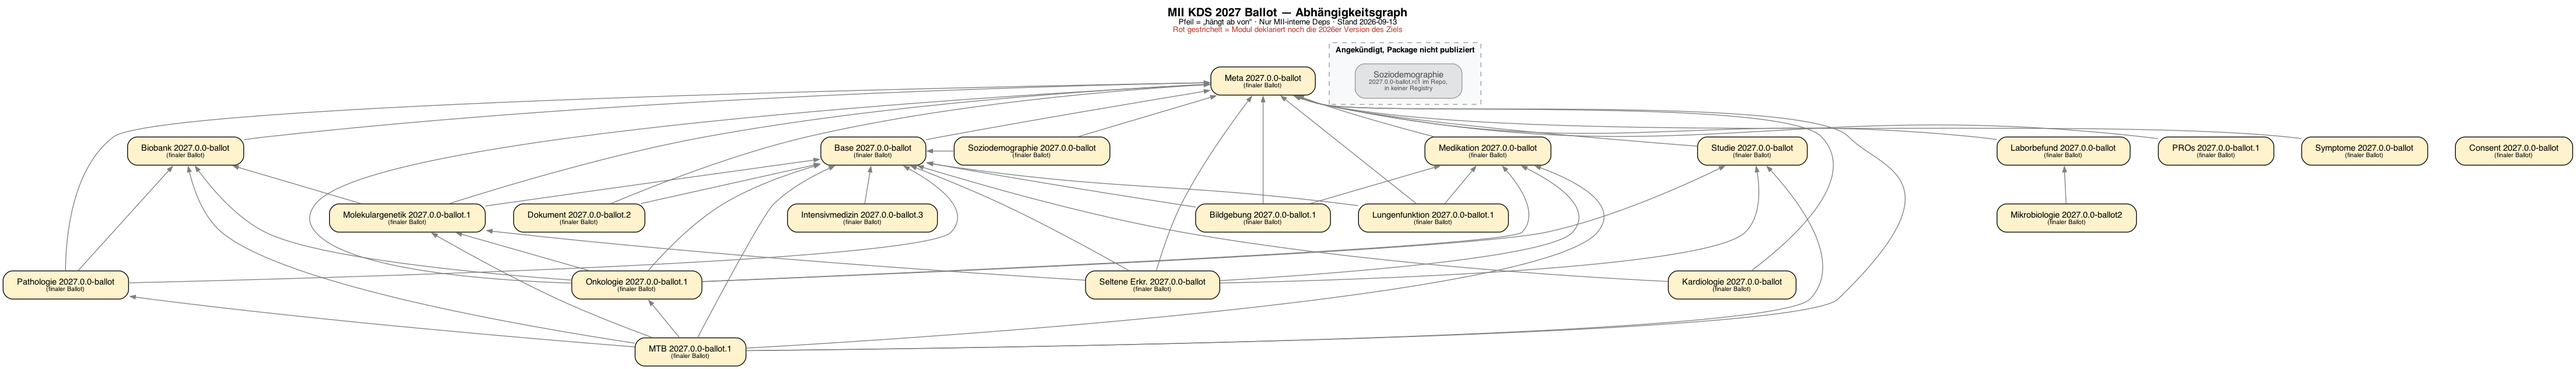
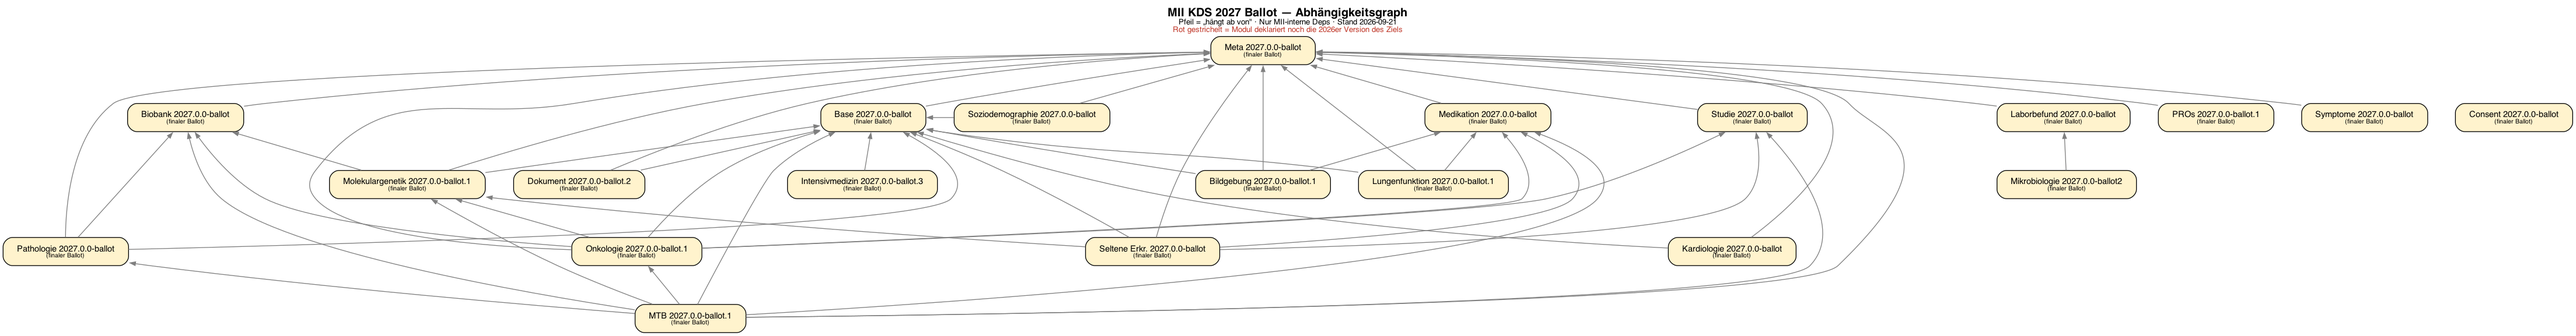
Ballot-Stand aktuell: rc-Historie raus, Graph bereinigt, Filter auf 200 Tage
- index.md: Hinweisblock auf den aktuellen Stand eingedampft (alle 21 Module
  auf ballot/ballot.x/ballot2, rc-Kandidaten abgeloest); PROs-Release auf
  v2027.0.0-ballot.1 korrigiert
- dep-graph-2027: veralteten Soziodemographie-Doppelknoten ('nicht publiziert')
  entfernt, Datum aktualisiert, neu gerendert
- ballot-tickets: Zeitfenster created >= -200d fuer Tabelle, Deep-Links und
  gespeicherte Filter; Portal-Filter aktualisiert

Claude-Session: https://claude.ai/code/session_01FUMnfFDBivo794wErYvxXj

diff --git a/scripts/ballot-tickets.py b/scripts/ballot-tickets.py
@@ -39,6 +39,7 @@ BALLOT_PAGE = os.path.join(ROOT, "input", "pagecontent", "ballot.md")
 MARK_START = "<!-- BALLOT-TICKETS:START -->"
 MARK_END = "<!-- BALLOT-TICKETS:END -->"
 FILTER_PREFIX = "MII KDS Ballot 2027 – "
+WINDOW_DAYS = 200  # nur Tickets aus diesem Zeitfenster zaehlen/filtern
 
 # Werte des Auswahlfelds "Project" (cf[10066]) im Ballotportal — die Melder ordnen
 # ihr Ticket damit einer ballotierten Spezifikation zu. Module ohne Eintrag haben
@@ -154,6 +155,7 @@ def jql_for(mod, info, project=BALLOT_PROJECT, open_only=False):
     parts = []
     if project:
         parts.append(f"project = {project}")
+    parts.append(f"created >= -{WINDOW_DAYS}d")
     if open_only:
         parts.append("statusCategory != Done")
     if project == BALLOT_PROJECT and mod in CF_OPTIONS:

diff --git a/input/pagecontent/ballot.md b/input/pagecontent/ballot.md
@@ -8,7 +8,9 @@ sind nicht anonym lesbar.
 
 ### Ticketstand je Modul
 
-Die Zuordnung der Tickets zu den Modulen folgt dem Auswahlfeld **„Project"** des
+Gezählt werden die Tickets der **letzten 200 Tage**, damit die Übersicht den laufenden
+Ballot zeigt und nicht die Historie früherer Kommentierungsrunden. Die Zuordnung der
+Tickets zu den Modulen folgt dem Auswahlfeld **„Project"** des
 Ballotportals, mit dem die Melder ihr Ticket einer ballotierten Spezifikation zuordnen
 (Base fasst dabei die Portaleinträge Person, Fall, Diagnose und Prozedur zusammen).
 Module, für die das Portal noch keine Auswahloption hat (Meta, Consent, Kardiologie,
@@ -20,30 +22,30 @@ Version, die diese BOM pinnt — im Zweifel das Ticket selbst prüfen.
 
 | Modul | Offen | In Arbeit | Erledigt | Gesamt | Portal |
 |-------|------:|----------:|---------:|-------:|--------|
-| Basismodul | 27 | 0 | 14 | 41 | [offen](https://hl7germany.atlassian.net/issues/?jql=project%20%3D%20HDB%20AND%20statusCategory%20%21%3D%20Done%20AND%20cf%5B10066%5D%20in%20%28%22MII%20-%20Modul%20Person%22%2C%20%22MII%20-%20Modul%20Fall%22%2C%20%22MII%20-%20Modul%20Diagnose%22%2C%20%22MII%20-%20Modul%20Prozedur%22%29%20ORDER%20BY%20created%20DESC) · [alle](https://hl7germany.atlassian.net/issues/?jql=project%20%3D%20HDB%20AND%20cf%5B10066%5D%20in%20%28%22MII%20-%20Modul%20Person%22%2C%20%22MII%20-%20Modul%20Fall%22%2C%20%22MII%20-%20Modul%20Diagnose%22%2C%20%22MII%20-%20Modul%20Prozedur%22%29%20ORDER%20BY%20created%20DESC) |
-| Bildgebung | 2 | 0 | 19 | 21 | [offen](https://hl7germany.atlassian.net/issues/?jql=project%20%3D%20HDB%20AND%20statusCategory%20%21%3D%20Done%20AND%20cf%5B10066%5D%20in%20%28%22MII%20-%20Modul%20Bildgebene%20Verfahren%22%2C%20%22MII%20-%20Modul%20Bildgebung%22%29%20ORDER%20BY%20created%20DESC) · [alle](https://hl7germany.atlassian.net/issues/?jql=project%20%3D%20HDB%20AND%20cf%5B10066%5D%20in%20%28%22MII%20-%20Modul%20Bildgebene%20Verfahren%22%2C%20%22MII%20-%20Modul%20Bildgebung%22%29%20ORDER%20BY%20created%20DESC) |
-| Biobank | 3 | 1 | 0 | 4 | [offen](https://hl7germany.atlassian.net/issues/?jql=project%20%3D%20HDB%20AND%20statusCategory%20%21%3D%20Done%20AND%20cf%5B10066%5D%20in%20%28%22MII%20-%20Modul%20Bioprobendaten%22%29%20ORDER%20BY%20created%20DESC) · [alle](https://hl7germany.atlassian.net/issues/?jql=project%20%3D%20HDB%20AND%20cf%5B10066%5D%20in%20%28%22MII%20-%20Modul%20Bioprobendaten%22%29%20ORDER%20BY%20created%20DESC) |
-| Consent | 10 | 1 | 3 | 14 | [offen](https://hl7germany.atlassian.net/issues/?jql=project%20%3D%20HDB%20AND%20statusCategory%20%21%3D%20Done%20AND%20%28text%20~%20%22de.medizininformatikinitiative.kerndatensatz.consent%22%20OR%20text%20~%20%22Consent%22%20OR%20text%20~%20%22Einwilligung%22%29%20ORDER%20BY%20created%20DESC) · [alle](https://hl7germany.atlassian.net/issues/?jql=project%20%3D%20HDB%20AND%20%28text%20~%20%22de.medizininformatikinitiative.kerndatensatz.consent%22%20OR%20text%20~%20%22Consent%22%20OR%20text%20~%20%22Einwilligung%22%29%20ORDER%20BY%20created%20DESC) |
-| Dokument | 1 | 0 | 16 | 17 | [offen](https://hl7germany.atlassian.net/issues/?jql=project%20%3D%20HDB%20AND%20statusCategory%20%21%3D%20Done%20AND%20cf%5B10066%5D%20in%20%28%22MII%20-%20Modul%20Dokument%22%29%20ORDER%20BY%20created%20DESC) · [alle](https://hl7germany.atlassian.net/issues/?jql=project%20%3D%20HDB%20AND%20cf%5B10066%5D%20in%20%28%22MII%20-%20Modul%20Dokument%22%29%20ORDER%20BY%20created%20DESC) |
-| Intensivmedizin | 2 | 0 | 11 | 13 | [offen](https://hl7germany.atlassian.net/issues/?jql=project%20%3D%20HDB%20AND%20statusCategory%20%21%3D%20Done%20AND%20cf%5B10066%5D%20in%20%28%22MII%20-%20Modul%20Intensivmedizin%22%29%20ORDER%20BY%20created%20DESC) · [alle](https://hl7germany.atlassian.net/issues/?jql=project%20%3D%20HDB%20AND%20cf%5B10066%5D%20in%20%28%22MII%20-%20Modul%20Intensivmedizin%22%29%20ORDER%20BY%20created%20DESC) |
-| Kardiologie | 2 | 0 | 1 | 3 | [offen](https://hl7germany.atlassian.net/issues/?jql=project%20%3D%20HDB%20AND%20statusCategory%20%21%3D%20Done%20AND%20%28text%20~%20%22de.medizininformatikinitiative.kerndatensatz.kardiologie%22%20OR%20text%20~%20%22Kardiologie%22%29%20ORDER%20BY%20created%20DESC) · [alle](https://hl7germany.atlassian.net/issues/?jql=project%20%3D%20HDB%20AND%20%28text%20~%20%22de.medizininformatikinitiative.kerndatensatz.kardiologie%22%20OR%20text%20~%20%22Kardiologie%22%29%20ORDER%20BY%20created%20DESC) |
-| Laborbefund | 15 | 0 | 0 | 15 | [offen](https://hl7germany.atlassian.net/issues/?jql=project%20%3D%20HDB%20AND%20statusCategory%20%21%3D%20Done%20AND%20cf%5B10066%5D%20in%20%28%22MII%20-%20Modul%20Laborbefund%22%29%20ORDER%20BY%20created%20DESC) · [alle](https://hl7germany.atlassian.net/issues/?jql=project%20%3D%20HDB%20AND%20cf%5B10066%5D%20in%20%28%22MII%20-%20Modul%20Laborbefund%22%29%20ORDER%20BY%20created%20DESC) |
-| Lungenfunktion | 0 | 0 | 0 | 0 | [offen](https://hl7germany.atlassian.net/issues/?jql=project%20%3D%20HDB%20AND%20statusCategory%20%21%3D%20Done%20AND%20%28text%20~%20%22de.medizininformatikinitiative.kerndatensatz.lungenfunktion%22%20OR%20text%20~%20%22Lungenfunktion%22%29%20ORDER%20BY%20created%20DESC) · [alle](https://hl7germany.atlassian.net/issues/?jql=project%20%3D%20HDB%20AND%20%28text%20~%20%22de.medizininformatikinitiative.kerndatensatz.lungenfunktion%22%20OR%20text%20~%20%22Lungenfunktion%22%29%20ORDER%20BY%20created%20DESC) |
-| Medikation | 0 | 0 | 7 | 7 | [offen](https://hl7germany.atlassian.net/issues/?jql=project%20%3D%20HDB%20AND%20statusCategory%20%21%3D%20Done%20AND%20cf%5B10066%5D%20in%20%28%22MII%20-%20Modul%20Medikation%22%29%20ORDER%20BY%20created%20DESC) · [alle](https://hl7germany.atlassian.net/issues/?jql=project%20%3D%20HDB%20AND%20cf%5B10066%5D%20in%20%28%22MII%20-%20Modul%20Medikation%22%29%20ORDER%20BY%20created%20DESC) |
-| Metadaten | 5 | 0 | 5 | 10 | [offen](https://hl7germany.atlassian.net/issues/?jql=project%20%3D%20HDB%20AND%20statusCategory%20%21%3D%20Done%20AND%20%28text%20~%20%22de.medizininformatikinitiative.kerndatensatz.meta%22%20OR%20text%20~%20%22Metadaten%22%29%20ORDER%20BY%20created%20DESC) · [alle](https://hl7germany.atlassian.net/issues/?jql=project%20%3D%20HDB%20AND%20%28text%20~%20%22de.medizininformatikinitiative.kerndatensatz.meta%22%20OR%20text%20~%20%22Metadaten%22%29%20ORDER%20BY%20created%20DESC) |
-| Mikrobiologie | 24 | 0 | 7 | 31 | [offen](https://hl7germany.atlassian.net/issues/?jql=project%20%3D%20HDB%20AND%20statusCategory%20%21%3D%20Done%20AND%20cf%5B10066%5D%20in%20%28%22MII%20-%20Modul%20Mikrobiologie%22%29%20ORDER%20BY%20created%20DESC) · [alle](https://hl7germany.atlassian.net/issues/?jql=project%20%3D%20HDB%20AND%20cf%5B10066%5D%20in%20%28%22MII%20-%20Modul%20Mikrobiologie%22%29%20ORDER%20BY%20created%20DESC) |
-| Molekulargenetik | 8 | 1 | 4 | 13 | [offen](https://hl7germany.atlassian.net/issues/?jql=project%20%3D%20HDB%20AND%20statusCategory%20%21%3D%20Done%20AND%20cf%5B10066%5D%20in%20%28%22MII%20-%20Modul%20Molekulargenetischer%20Befundbericht%22%29%20ORDER%20BY%20created%20DESC) · [alle](https://hl7germany.atlassian.net/issues/?jql=project%20%3D%20HDB%20AND%20cf%5B10066%5D%20in%20%28%22MII%20-%20Modul%20Molekulargenetischer%20Befundbericht%22%29%20ORDER%20BY%20created%20DESC) |
-| Molekulares Tumorboard | 6 | 5 | 6 | 17 | [offen](https://hl7germany.atlassian.net/issues/?jql=project%20%3D%20HDB%20AND%20statusCategory%20%21%3D%20Done%20AND%20cf%5B10066%5D%20in%20%28%22MII%20-%20Modul%20Tumorboard%22%2C%20%22MII%20-%20Modul%20Molekulares%20Tumorboard%22%29%20ORDER%20BY%20created%20DESC) · [alle](https://hl7germany.atlassian.net/issues/?jql=project%20%3D%20HDB%20AND%20cf%5B10066%5D%20in%20%28%22MII%20-%20Modul%20Tumorboard%22%2C%20%22MII%20-%20Modul%20Molekulares%20Tumorboard%22%29%20ORDER%20BY%20created%20DESC) |
-| Onkologie | 18 | 20 | 112 | 150 | [offen](https://hl7germany.atlassian.net/issues/?jql=project%20%3D%20HDB%20AND%20statusCategory%20%21%3D%20Done%20AND%20cf%5B10066%5D%20in%20%28%22MII%20-%20Modul%20Onkologie%22%29%20ORDER%20BY%20created%20DESC) · [alle](https://hl7germany.atlassian.net/issues/?jql=project%20%3D%20HDB%20AND%20cf%5B10066%5D%20in%20%28%22MII%20-%20Modul%20Onkologie%22%29%20ORDER%20BY%20created%20DESC) |
-| Pathologie | 0 | 0 | 16 | 16 | [offen](https://hl7germany.atlassian.net/issues/?jql=project%20%3D%20HDB%20AND%20statusCategory%20%21%3D%20Done%20AND%20cf%5B10066%5D%20in%20%28%22MII%20-%20Modul%20Pathologiebefund%22%29%20ORDER%20BY%20created%20DESC) · [alle](https://hl7germany.atlassian.net/issues/?jql=project%20%3D%20HDB%20AND%20cf%5B10066%5D%20in%20%28%22MII%20-%20Modul%20Pathologiebefund%22%29%20ORDER%20BY%20created%20DESC) |
-| PRO | 8 | 0 | 2 | 10 | [offen](https://hl7germany.atlassian.net/issues/?jql=project%20%3D%20HDB%20AND%20statusCategory%20%21%3D%20Done%20AND%20cf%5B10066%5D%20in%20%28%22MII%20-%20Modul%20Patient%20Reported%20Outcomes%22%29%20ORDER%20BY%20created%20DESC) · [alle](https://hl7germany.atlassian.net/issues/?jql=project%20%3D%20HDB%20AND%20cf%5B10066%5D%20in%20%28%22MII%20-%20Modul%20Patient%20Reported%20Outcomes%22%29%20ORDER%20BY%20created%20DESC) |
-| Seltene Erkrankungen | 9 | 4 | 12 | 25 | [offen](https://hl7germany.atlassian.net/issues/?jql=project%20%3D%20HDB%20AND%20statusCategory%20%21%3D%20Done%20AND%20cf%5B10066%5D%20in%20%28%22MII%20-%20Modul%20Seltene%20Erkrankungen%22%29%20ORDER%20BY%20created%20DESC) · [alle](https://hl7germany.atlassian.net/issues/?jql=project%20%3D%20HDB%20AND%20cf%5B10066%5D%20in%20%28%22MII%20-%20Modul%20Seltene%20Erkrankungen%22%29%20ORDER%20BY%20created%20DESC) |
-| Soziodemographie | 1 | 0 | 0 | 1 | [offen](https://hl7germany.atlassian.net/issues/?jql=project%20%3D%20HDB%20AND%20statusCategory%20%21%3D%20Done%20AND%20%28text%20~%20%22de.medizininformatikinitiative.kerndatensatz.soziodemographie%22%20OR%20text%20~%20%22Soziodemographie%22%20OR%20text%20~%20%22Soziodemographisch%22%29%20ORDER%20BY%20created%20DESC) · [alle](https://hl7germany.atlassian.net/issues/?jql=project%20%3D%20HDB%20AND%20%28text%20~%20%22de.medizininformatikinitiative.kerndatensatz.soziodemographie%22%20OR%20text%20~%20%22Soziodemographie%22%20OR%20text%20~%20%22Soziodemographisch%22%29%20ORDER%20BY%20created%20DESC) |
-| Studie | 116 | 8 | 33 | 157 | [offen](https://hl7germany.atlassian.net/issues/?jql=project%20%3D%20HDB%20AND%20statusCategory%20%21%3D%20Done%20AND%20cf%5B10066%5D%20in%20%28%22MII%20-%20Modul%20Medizinisches%20Forschungsvorhaben%22%29%20ORDER%20BY%20created%20DESC) · [alle](https://hl7germany.atlassian.net/issues/?jql=project%20%3D%20HDB%20AND%20cf%5B10066%5D%20in%20%28%22MII%20-%20Modul%20Medizinisches%20Forschungsvorhaben%22%29%20ORDER%20BY%20created%20DESC) |
-| Symptom | 3 | 0 | 1 | 4 | [offen](https://hl7germany.atlassian.net/issues/?jql=project%20%3D%20HDB%20AND%20statusCategory%20%21%3D%20Done%20AND%20cf%5B10066%5D%20in%20%28%22MII%20-%20Modul%20Symptom%20%2F%20klinischer%20Ph%C3%A4notyp%22%29%20ORDER%20BY%20created%20DESC) · [alle](https://hl7germany.atlassian.net/issues/?jql=project%20%3D%20HDB%20AND%20cf%5B10066%5D%20in%20%28%22MII%20-%20Modul%20Symptom%20%2F%20klinischer%20Ph%C3%A4notyp%22%29%20ORDER%20BY%20created%20DESC) |
-| **Summe** | **260** | **40** | **269** | **569** | |
+| Basismodul | 0 | 0 | 0 | 0 | [offen](https://hl7germany.atlassian.net/issues/?jql=project%20%3D%20HDB%20AND%20created%20%3E%3D%20-200d%20AND%20statusCategory%20%21%3D%20Done%20AND%20cf%5B10066%5D%20in%20%28%22MII%20-%20Modul%20Person%22%2C%20%22MII%20-%20Modul%20Fall%22%2C%20%22MII%20-%20Modul%20Diagnose%22%2C%20%22MII%20-%20Modul%20Prozedur%22%29%20ORDER%20BY%20created%20DESC) · [alle](https://hl7germany.atlassian.net/issues/?jql=project%20%3D%20HDB%20AND%20created%20%3E%3D%20-200d%20AND%20cf%5B10066%5D%20in%20%28%22MII%20-%20Modul%20Person%22%2C%20%22MII%20-%20Modul%20Fall%22%2C%20%22MII%20-%20Modul%20Diagnose%22%2C%20%22MII%20-%20Modul%20Prozedur%22%29%20ORDER%20BY%20created%20DESC) |
+| Bildgebung | 1 | 0 | 0 | 1 | [offen](https://hl7germany.atlassian.net/issues/?jql=project%20%3D%20HDB%20AND%20created%20%3E%3D%20-200d%20AND%20statusCategory%20%21%3D%20Done%20AND%20cf%5B10066%5D%20in%20%28%22MII%20-%20Modul%20Bildgebene%20Verfahren%22%2C%20%22MII%20-%20Modul%20Bildgebung%22%29%20ORDER%20BY%20created%20DESC) · [alle](https://hl7germany.atlassian.net/issues/?jql=project%20%3D%20HDB%20AND%20created%20%3E%3D%20-200d%20AND%20cf%5B10066%5D%20in%20%28%22MII%20-%20Modul%20Bildgebene%20Verfahren%22%2C%20%22MII%20-%20Modul%20Bildgebung%22%29%20ORDER%20BY%20created%20DESC) |
+| Biobank | 0 | 0 | 0 | 0 | [offen](https://hl7germany.atlassian.net/issues/?jql=project%20%3D%20HDB%20AND%20created%20%3E%3D%20-200d%20AND%20statusCategory%20%21%3D%20Done%20AND%20cf%5B10066%5D%20in%20%28%22MII%20-%20Modul%20Bioprobendaten%22%29%20ORDER%20BY%20created%20DESC) · [alle](https://hl7germany.atlassian.net/issues/?jql=project%20%3D%20HDB%20AND%20created%20%3E%3D%20-200d%20AND%20cf%5B10066%5D%20in%20%28%22MII%20-%20Modul%20Bioprobendaten%22%29%20ORDER%20BY%20created%20DESC) |
+| Consent | 0 | 0 | 0 | 0 | [offen](https://hl7germany.atlassian.net/issues/?jql=project%20%3D%20HDB%20AND%20created%20%3E%3D%20-200d%20AND%20statusCategory%20%21%3D%20Done%20AND%20%28text%20~%20%22de.medizininformatikinitiative.kerndatensatz.consent%22%20OR%20text%20~%20%22Consent%22%20OR%20text%20~%20%22Einwilligung%22%29%20ORDER%20BY%20created%20DESC) · [alle](https://hl7germany.atlassian.net/issues/?jql=project%20%3D%20HDB%20AND%20created%20%3E%3D%20-200d%20AND%20%28text%20~%20%22de.medizininformatikinitiative.kerndatensatz.consent%22%20OR%20text%20~%20%22Consent%22%20OR%20text%20~%20%22Einwilligung%22%29%20ORDER%20BY%20created%20DESC) |
+| Dokument | 1 | 0 | 0 | 1 | [offen](https://hl7germany.atlassian.net/issues/?jql=project%20%3D%20HDB%20AND%20created%20%3E%3D%20-200d%20AND%20statusCategory%20%21%3D%20Done%20AND%20cf%5B10066%5D%20in%20%28%22MII%20-%20Modul%20Dokument%22%29%20ORDER%20BY%20created%20DESC) · [alle](https://hl7germany.atlassian.net/issues/?jql=project%20%3D%20HDB%20AND%20created%20%3E%3D%20-200d%20AND%20cf%5B10066%5D%20in%20%28%22MII%20-%20Modul%20Dokument%22%29%20ORDER%20BY%20created%20DESC) |
+| Intensivmedizin | 1 | 0 | 0 | 1 | [offen](https://hl7germany.atlassian.net/issues/?jql=project%20%3D%20HDB%20AND%20created%20%3E%3D%20-200d%20AND%20statusCategory%20%21%3D%20Done%20AND%20cf%5B10066%5D%20in%20%28%22MII%20-%20Modul%20Intensivmedizin%22%29%20ORDER%20BY%20created%20DESC) · [alle](https://hl7germany.atlassian.net/issues/?jql=project%20%3D%20HDB%20AND%20created%20%3E%3D%20-200d%20AND%20cf%5B10066%5D%20in%20%28%22MII%20-%20Modul%20Intensivmedizin%22%29%20ORDER%20BY%20created%20DESC) |
+| Kardiologie | 0 | 0 | 0 | 0 | [offen](https://hl7germany.atlassian.net/issues/?jql=project%20%3D%20HDB%20AND%20created%20%3E%3D%20-200d%20AND%20statusCategory%20%21%3D%20Done%20AND%20%28text%20~%20%22de.medizininformatikinitiative.kerndatensatz.kardiologie%22%20OR%20text%20~%20%22Kardiologie%22%29%20ORDER%20BY%20created%20DESC) · [alle](https://hl7germany.atlassian.net/issues/?jql=project%20%3D%20HDB%20AND%20created%20%3E%3D%20-200d%20AND%20%28text%20~%20%22de.medizininformatikinitiative.kerndatensatz.kardiologie%22%20OR%20text%20~%20%22Kardiologie%22%29%20ORDER%20BY%20created%20DESC) |
+| Laborbefund | 0 | 0 | 0 | 0 | [offen](https://hl7germany.atlassian.net/issues/?jql=project%20%3D%20HDB%20AND%20created%20%3E%3D%20-200d%20AND%20statusCategory%20%21%3D%20Done%20AND%20cf%5B10066%5D%20in%20%28%22MII%20-%20Modul%20Laborbefund%22%29%20ORDER%20BY%20created%20DESC) · [alle](https://hl7germany.atlassian.net/issues/?jql=project%20%3D%20HDB%20AND%20created%20%3E%3D%20-200d%20AND%20cf%5B10066%5D%20in%20%28%22MII%20-%20Modul%20Laborbefund%22%29%20ORDER%20BY%20created%20DESC) |
+| Lungenfunktion | 0 | 0 | 0 | 0 | [offen](https://hl7germany.atlassian.net/issues/?jql=project%20%3D%20HDB%20AND%20created%20%3E%3D%20-200d%20AND%20statusCategory%20%21%3D%20Done%20AND%20%28text%20~%20%22de.medizininformatikinitiative.kerndatensatz.lungenfunktion%22%20OR%20text%20~%20%22Lungenfunktion%22%29%20ORDER%20BY%20created%20DESC) · [alle](https://hl7germany.atlassian.net/issues/?jql=project%20%3D%20HDB%20AND%20created%20%3E%3D%20-200d%20AND%20%28text%20~%20%22de.medizininformatikinitiative.kerndatensatz.lungenfunktion%22%20OR%20text%20~%20%22Lungenfunktion%22%29%20ORDER%20BY%20created%20DESC) |
+| Medikation | 0 | 0 | 0 | 0 | [offen](https://hl7germany.atlassian.net/issues/?jql=project%20%3D%20HDB%20AND%20created%20%3E%3D%20-200d%20AND%20statusCategory%20%21%3D%20Done%20AND%20cf%5B10066%5D%20in%20%28%22MII%20-%20Modul%20Medikation%22%29%20ORDER%20BY%20created%20DESC) · [alle](https://hl7germany.atlassian.net/issues/?jql=project%20%3D%20HDB%20AND%20created%20%3E%3D%20-200d%20AND%20cf%5B10066%5D%20in%20%28%22MII%20-%20Modul%20Medikation%22%29%20ORDER%20BY%20created%20DESC) |
+| Metadaten | 0 | 0 | 0 | 0 | [offen](https://hl7germany.atlassian.net/issues/?jql=project%20%3D%20HDB%20AND%20created%20%3E%3D%20-200d%20AND%20statusCategory%20%21%3D%20Done%20AND%20%28text%20~%20%22de.medizininformatikinitiative.kerndatensatz.meta%22%20OR%20text%20~%20%22Metadaten%22%29%20ORDER%20BY%20created%20DESC) · [alle](https://hl7germany.atlassian.net/issues/?jql=project%20%3D%20HDB%20AND%20created%20%3E%3D%20-200d%20AND%20%28text%20~%20%22de.medizininformatikinitiative.kerndatensatz.meta%22%20OR%20text%20~%20%22Metadaten%22%29%20ORDER%20BY%20created%20DESC) |
+| Mikrobiologie | 0 | 0 | 0 | 0 | [offen](https://hl7germany.atlassian.net/issues/?jql=project%20%3D%20HDB%20AND%20created%20%3E%3D%20-200d%20AND%20statusCategory%20%21%3D%20Done%20AND%20cf%5B10066%5D%20in%20%28%22MII%20-%20Modul%20Mikrobiologie%22%29%20ORDER%20BY%20created%20DESC) · [alle](https://hl7germany.atlassian.net/issues/?jql=project%20%3D%20HDB%20AND%20created%20%3E%3D%20-200d%20AND%20cf%5B10066%5D%20in%20%28%22MII%20-%20Modul%20Mikrobiologie%22%29%20ORDER%20BY%20created%20DESC) |
+| Molekulargenetik | 0 | 0 | 0 | 0 | [offen](https://hl7germany.atlassian.net/issues/?jql=project%20%3D%20HDB%20AND%20created%20%3E%3D%20-200d%20AND%20statusCategory%20%21%3D%20Done%20AND%20cf%5B10066%5D%20in%20%28%22MII%20-%20Modul%20Molekulargenetischer%20Befundbericht%22%29%20ORDER%20BY%20created%20DESC) · [alle](https://hl7germany.atlassian.net/issues/?jql=project%20%3D%20HDB%20AND%20created%20%3E%3D%20-200d%20AND%20cf%5B10066%5D%20in%20%28%22MII%20-%20Modul%20Molekulargenetischer%20Befundbericht%22%29%20ORDER%20BY%20created%20DESC) |
+| Molekulares Tumorboard | 1 | 0 | 0 | 1 | [offen](https://hl7germany.atlassian.net/issues/?jql=project%20%3D%20HDB%20AND%20created%20%3E%3D%20-200d%20AND%20statusCategory%20%21%3D%20Done%20AND%20cf%5B10066%5D%20in%20%28%22MII%20-%20Modul%20Tumorboard%22%2C%20%22MII%20-%20Modul%20Molekulares%20Tumorboard%22%29%20ORDER%20BY%20created%20DESC) · [alle](https://hl7germany.atlassian.net/issues/?jql=project%20%3D%20HDB%20AND%20created%20%3E%3D%20-200d%20AND%20cf%5B10066%5D%20in%20%28%22MII%20-%20Modul%20Tumorboard%22%2C%20%22MII%20-%20Modul%20Molekulares%20Tumorboard%22%29%20ORDER%20BY%20created%20DESC) |
+| Onkologie | 0 | 0 | 0 | 0 | [offen](https://hl7germany.atlassian.net/issues/?jql=project%20%3D%20HDB%20AND%20created%20%3E%3D%20-200d%20AND%20statusCategory%20%21%3D%20Done%20AND%20cf%5B10066%5D%20in%20%28%22MII%20-%20Modul%20Onkologie%22%29%20ORDER%20BY%20created%20DESC) · [alle](https://hl7germany.atlassian.net/issues/?jql=project%20%3D%20HDB%20AND%20created%20%3E%3D%20-200d%20AND%20cf%5B10066%5D%20in%20%28%22MII%20-%20Modul%20Onkologie%22%29%20ORDER%20BY%20created%20DESC) |
+| Pathologie | 0 | 0 | 0 | 0 | [offen](https://hl7germany.atlassian.net/issues/?jql=project%20%3D%20HDB%20AND%20created%20%3E%3D%20-200d%20AND%20statusCategory%20%21%3D%20Done%20AND%20cf%5B10066%5D%20in%20%28%22MII%20-%20Modul%20Pathologiebefund%22%29%20ORDER%20BY%20created%20DESC) · [alle](https://hl7germany.atlassian.net/issues/?jql=project%20%3D%20HDB%20AND%20created%20%3E%3D%20-200d%20AND%20cf%5B10066%5D%20in%20%28%22MII%20-%20Modul%20Pathologiebefund%22%29%20ORDER%20BY%20created%20DESC) |
+| PRO | 1 | 0 | 0 | 1 | [offen](https://hl7germany.atlassian.net/issues/?jql=project%20%3D%20HDB%20AND%20created%20%3E%3D%20-200d%20AND%20statusCategory%20%21%3D%20Done%20AND%20cf%5B10066%5D%20in%20%28%22MII%20-%20Modul%20Patient%20Reported%20Outcomes%22%29%20ORDER%20BY%20created%20DESC) · [alle](https://hl7germany.atlassian.net/issues/?jql=project%20%3D%20HDB%20AND%20created%20%3E%3D%20-200d%20AND%20cf%5B10066%5D%20in%20%28%22MII%20-%20Modul%20Patient%20Reported%20Outcomes%22%29%20ORDER%20BY%20created%20DESC) |
+| Seltene Erkrankungen | 0 | 0 | 0 | 0 | [offen](https://hl7germany.atlassian.net/issues/?jql=project%20%3D%20HDB%20AND%20created%20%3E%3D%20-200d%20AND%20statusCategory%20%21%3D%20Done%20AND%20cf%5B10066%5D%20in%20%28%22MII%20-%20Modul%20Seltene%20Erkrankungen%22%29%20ORDER%20BY%20created%20DESC) · [alle](https://hl7germany.atlassian.net/issues/?jql=project%20%3D%20HDB%20AND%20created%20%3E%3D%20-200d%20AND%20cf%5B10066%5D%20in%20%28%22MII%20-%20Modul%20Seltene%20Erkrankungen%22%29%20ORDER%20BY%20created%20DESC) |
+| Soziodemographie | 0 | 0 | 0 | 0 | [offen](https://hl7germany.atlassian.net/issues/?jql=project%20%3D%20HDB%20AND%20created%20%3E%3D%20-200d%20AND%20statusCategory%20%21%3D%20Done%20AND%20%28text%20~%20%22de.medizininformatikinitiative.kerndatensatz.soziodemographie%22%20OR%20text%20~%20%22Soziodemographie%22%20OR%20text%20~%20%22Soziodemographisch%22%29%20ORDER%20BY%20created%20DESC) · [alle](https://hl7germany.atlassian.net/issues/?jql=project%20%3D%20HDB%20AND%20created%20%3E%3D%20-200d%20AND%20%28text%20~%20%22de.medizininformatikinitiative.kerndatensatz.soziodemographie%22%20OR%20text%20~%20%22Soziodemographie%22%20OR%20text%20~%20%22Soziodemographisch%22%29%20ORDER%20BY%20created%20DESC) |
+| Studie | 0 | 0 | 0 | 0 | [offen](https://hl7germany.atlassian.net/issues/?jql=project%20%3D%20HDB%20AND%20created%20%3E%3D%20-200d%20AND%20statusCategory%20%21%3D%20Done%20AND%20cf%5B10066%5D%20in%20%28%22MII%20-%20Modul%20Medizinisches%20Forschungsvorhaben%22%29%20ORDER%20BY%20created%20DESC) · [alle](https://hl7germany.atlassian.net/issues/?jql=project%20%3D%20HDB%20AND%20created%20%3E%3D%20-200d%20AND%20cf%5B10066%5D%20in%20%28%22MII%20-%20Modul%20Medizinisches%20Forschungsvorhaben%22%29%20ORDER%20BY%20created%20DESC) |
+| Symptom | 0 | 0 | 0 | 0 | [offen](https://hl7germany.atlassian.net/issues/?jql=project%20%3D%20HDB%20AND%20created%20%3E%3D%20-200d%20AND%20statusCategory%20%21%3D%20Done%20AND%20cf%5B10066%5D%20in%20%28%22MII%20-%20Modul%20Symptom%20%2F%20klinischer%20Ph%C3%A4notyp%22%29%20ORDER%20BY%20created%20DESC) · [alle](https://hl7germany.atlassian.net/issues/?jql=project%20%3D%20HDB%20AND%20created%20%3E%3D%20-200d%20AND%20cf%5B10066%5D%20in%20%28%22MII%20-%20Modul%20Symptom%20%2F%20klinischer%20Ph%C3%A4notyp%22%29%20ORDER%20BY%20created%20DESC) |
+| **Summe** | **5** | **0** | **0** | **5** | |
 
-<small>Stand: 2026-09-21 11:41 UTC · Zählung über Projekt [HDB](https://hl7germany.atlassian.net/browse/HDB) · automatisch aktualisiert</small>
+<small>Stand: 2026-09-21 12:45 UTC · Zählung über Projekt [HDB](https://hl7germany.atlassian.net/browse/HDB) · automatisch aktualisiert</small>
 <!-- BALLOT-TICKETS:END -->
 
 Die Tabelle wird täglich automatisch aktualisiert

diff --git a/input/pagecontent/index.md b/input/pagecontent/index.md
@@ -14,29 +14,11 @@ Während das [Meta-Modul](https://github.com/medizininformatik-initiative/kernda
 
 > **Ballot-Stand 2027.0.0 (Stand 2026-09-21)**
 >
-> **ICU `2027.0.0-ballot.3`** (publiziert 2026-09-17) löst die letzte 2026er-Kante auf: das Modul deklariert jetzt Base und Meta `2027.0.0-ballot`, Basisprofile 1.6.0, ISiK 6.0.0, Terminology 7.3.0 und DVMD KDL 2026.0.0 — und enthält wieder alle fünf Score-Profile, die der versehentlich publizierten `2027.0.0` fehlen. **Damit ist die Ballot-Linie über alle 21 Module kohärent.** Die älteren Notizen unten beschreiben den Weg dorthin.
+> Alle 21 Module sind auf die 2027er Ballot-Linie gepinnt. Die **aktuellen Fassungen** heißen `2027.0.0-ballot`, `…-ballot.1`, `…-ballot.2`, `…-ballot.3` bzw. `…-ballot2` (Mikrobiologie) — die früheren Release-Kandidaten (`…-ballot.rcN`) sind durchgehend abgelöst. Welche Version je Modul gepinnt ist, zeigt die [Gesamtübersicht](#gesamtübersicht).
 >
-> Diese BOM bildet den laufenden Ballot ab: Module mit einem 2027.0.0-Release sind auf dieses gepinnt (Base, Meta, Biobank, Studie, Bildgebung, Dokument, ICU, Mikrobiologie), alle übrigen auf ihre höchste stabile 2026er Version.
+> Mit **ICU `2027.0.0-ballot.3`** (publiziert 2026-09-17) ist die Ballot-Linie untereinander **kohärent**: Alle Module deklarieren Base und Meta der 2027er Linie, doppelte Canonicals beim transitiven Auflösen treten nicht mehr auf. Diese BOM bleibt dennoch ein **Ballot-Arbeitsstand zum Review, kein freigegebener Versionsstand**.
 >
-> Die Ballot-Linie ist untereinander **noch nicht kohärent**: Die 2027.0.0-Releases deklarieren teilweise weiterhin die 2026er Basismodule als Abhängigkeit — Bildgebung erwartet Base 2026.0.1 und Meta 2026.0.0, Dokument erwartet Base 2026.0.0 und Meta 2026.0.0, Biobank und Studie erwarten Meta 2026.0.0, ICU 2027.0.0 erwartet Base 2026.0.1. Lediglich Base 2027.0.0-ballot.rc1 → Meta 2027.0.0-ballot.rc3 ist in sich stimmig.
->
-> Beim Auflösen können Base und Meta dadurch transitiv in zwei Versionen gezogen werden, was bei der Validierung doppelte Canonicals erzeugt. Im Abhängigkeitsgraphen unten sind diese Stellen rot gestrichelt markiert. Diese BOM ist deshalb ein **Ballot-Arbeitsstand zum Review, kein freigegebener Versionsstand**.
->
-> Neu in dieser BOM sind **Kardiologie** und **Lungenfunktion** (beide 2027.0.0-ballot.rc1). Lungenfunktion deklariert dabei die Abhängigkeit `de.basiprofil.r4` — ein Tippfehler, das Paket existiert nicht und die Abhängigkeit ist nicht auflösbar. **Soziodemographie** ist angekündigt, aber in keiner Registry publiziert und daher nicht gepinnt.
->
-> **Meta ist in der finalen Ballot-Fassung**: `2027.0.0-ballot` vom 10.09.2026 löst `ballot.rc3` ab — 0 Errors statt 386, 182 statt 175 Ressourcen.
->
-> **MolGen `2027.0.0-ballot.1`** verweist als erstes Modul durchgängig auf die finalen Fassungen von Base, Biobank und Meta. **Dokument** ist ebenfalls final, deklariert aber noch Base `ballot.rc1` und Meta `ballot.rc3`.
->
-> **Dokument ist umgezogen**: `ballot.rc2` verweist auf Base und Meta der 2027er Linie — das letzte Modul, das noch an Base 2026.0.0 hing. **Medikation** ist in der finalen Fassung.
->
-> **Neu in der BOM: Symptome** mit `2027.0.0-ballot` — vollständig kohärent und mit 0 QA-Errors. **PROs** ist ebenfalls final, hängt aber unverändert an Meta `2026.0.x`.
->
-> **Base und Biobank sind ebenfalls in der finalen Ballot-Fassung** und verweisen auf Meta `2027.0.0-ballot`. Biobank hat dabei den Umzug auf **MIABIS 1.3.0** vollzogen.
->
-> Vollständig auf 2027er Abhängigkeiten sind damit **Base, Biobank, Laborbefund, Medikation, MolGen und Pathologie**.
->
-> Weiterhin am 2026er Stand hängen **PROs** (Meta 2026.0.x, unverändert seit 2026.7.0), **Lungenfunktion** (Base, Meta und Medikation je 2026.0.x — und weiterhin mit dem Tippfehler `de.basiprofil.r4`), **Bildgebung**, **Dokument**, **ICU**, **Kardiologie** sowie **Mikrobiologie**, das Laborbefund 2026.0.3 fordert.
+> Den Weg dorthin — die rc-Zwischenstände und die schrittweise aufgelösten 2026er-Kanten — dokumentiert die Git-Historie dieser Seite.
 
 
 ## Gesamtübersicht
@@ -101,7 +83,7 @@ Alle Module dieser BOM auf einen Blick — die gepinnte Ballot-Version, das Pack
 | Onkologie | `de.medizininformatikinitiative.kerndatensatz.onkologie` | 2027.0.0-ballot.1 | [kerndatensatzmodul-onkologie](https://github.com/medizininformatik-initiative/kerndatensatzmodul-onkologie) | [2027.0.0-ballot.1](https://medizininformatik-initiative.github.io/kerndatensatzmodul-onkologie/) · 4669 Fehler | [v2027.0.0-ballot.1](https://github.com/medizininformatik-initiative/kerndatensatzmodul-onkologie/releases/tag/v2027.0.0-ballot.1) (2026-09-15) |
 | Seltene Erkrankungen | `de.medizininformatikinitiative.kerndatensatz.seltene` | 2027.0.0-ballot | [kerndatensatzmodul-seltene-erkrankungen](https://github.com/medizininformatik-initiative/kerndatensatzmodul-seltene-erkrankungen) | [2027.0.0-ballot](https://medizininformatik-initiative.github.io/kerndatensatzmodul-seltene-erkrankungen/) · 353 Fehler | [v2026.0.1](https://github.com/medizininformatik-initiative/kerndatensatzmodul-seltene-erkrankungen/releases/tag/v2026.0.1) (2026-03-30) |
 | Molekulares Tumorboard | `de.medizininformatikinitiative.kerndatensatz.mtb` | 2027.0.0-ballot.1 | [kerndatensatzmodul-molekulares-tumorboard](https://github.com/medizininformatik-initiative/kerndatensatzmodul-molekulares-tumorboard) | [2027.0.0-ballot.1](https://medizininformatik-initiative.github.io/kerndatensatzmodul-molekulares-tumorboard/) · 55 Fehler | [v2027.0.0-ballot.1](https://github.com/medizininformatik-initiative/kerndatensatzmodul-molekulares-tumorboard/releases/tag/v2027.0.0-ballot.1) (2026-09-15) |
-| PROs | `de.medizininformatikinitiative.kerndatensatz.pros` | 2027.0.0-ballot.1 | [kerndatensatzmodul-proms](https://github.com/medizininformatik-initiative/kerndatensatzmodul-proms) | [2027.0.0-ballot.1](https://medizininformatik-initiative.github.io/kerndatensatzmodul-proms/) · 214 Fehler | [v2027.0.0-ballot.rc5](https://github.com/medizininformatik-initiative/kerndatensatzmodul-proms/releases/tag/v2027.0.0-ballot.rc5) (2026-09-11) |
+| PROs | `de.medizininformatikinitiative.kerndatensatz.pros` | 2027.0.0-ballot.1 | [kerndatensatzmodul-proms](https://github.com/medizininformatik-initiative/kerndatensatzmodul-proms) | [2027.0.0-ballot.1](https://medizininformatik-initiative.github.io/kerndatensatzmodul-proms/) · 214 Fehler | [v2027.0.0-ballot.1](https://github.com/medizininformatik-initiative/kerndatensatzmodul-proms/releases/tag/v2027.0.0-ballot.1) (2026-09-11) |
 | Consent | `de.medizininformatikinitiative.kerndatensatz.consent` | 2027.0.0-ballot | [kerndatensatzmodul-consent](https://github.com/medizininformatik-initiative/kerndatensatzmodul-consent) | [2027.0.0-ballot](https://medizininformatik-initiative.github.io/kerndatensatzmodul-consent/) · 0 Fehler | [v2027.0.0-ballot](https://github.com/medizininformatik-initiative/kerndatensatzmodul-consent/releases/tag/v2027.0.0-ballot) (2026-09-14) |
 | Kardiologie | `de.medizininformatikinitiative.kerndatensatz.kardiologie` | 2027.0.0-ballot | [kerndatensatz-kardiologie](https://github.com/medizininformatik-initiative/kerndatensatz-kardiologie) | [2027.0.0-ballot](https://medizininformatik-initiative.github.io/kerndatensatz-kardiologie/branches/release/v2027.0.0-ballot/) · 42 Fehler | [v2027.0.0-ballot](https://github.com/medizininformatik-initiative/kerndatensatz-kardiologie/releases/tag/v2027.0.0-ballot) (2026-09-14) |
 | Lungenfunktion | `de.medizininformatikinitiative.kerndatensatz.lungenfunktion` | 2027.0.0-ballot.1 | [kerndatensatz-lungenfunktion](https://github.com/medizininformatik-initiative/kerndatensatz-lungenfunktion) | [2027.0.0-ballot.1](https://medizininformatik-initiative.github.io/kerndatensatz-lungenfunktion/) · 1147 Fehler | [v2027.0.0-ballot.1](https://github.com/medizininformatik-initiative/kerndatensatz-lungenfunktion/releases/tag/v2027.0.0-ballot.1) (2026-09-15) |
